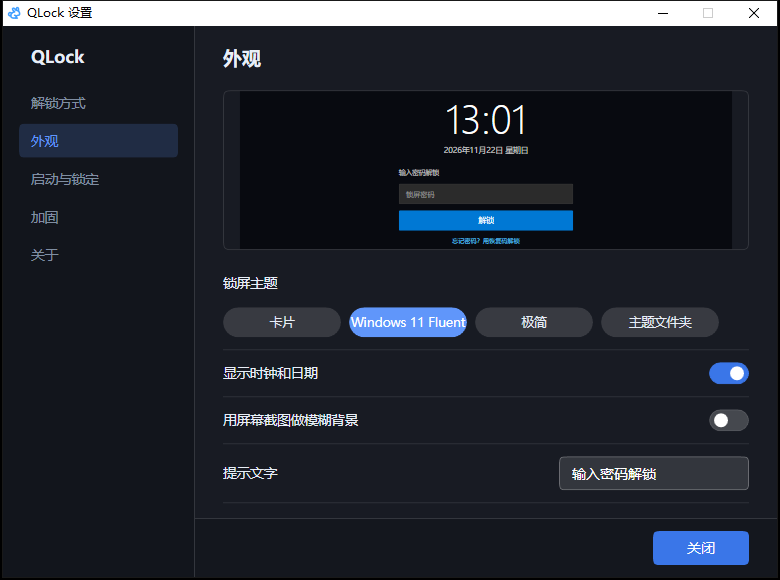
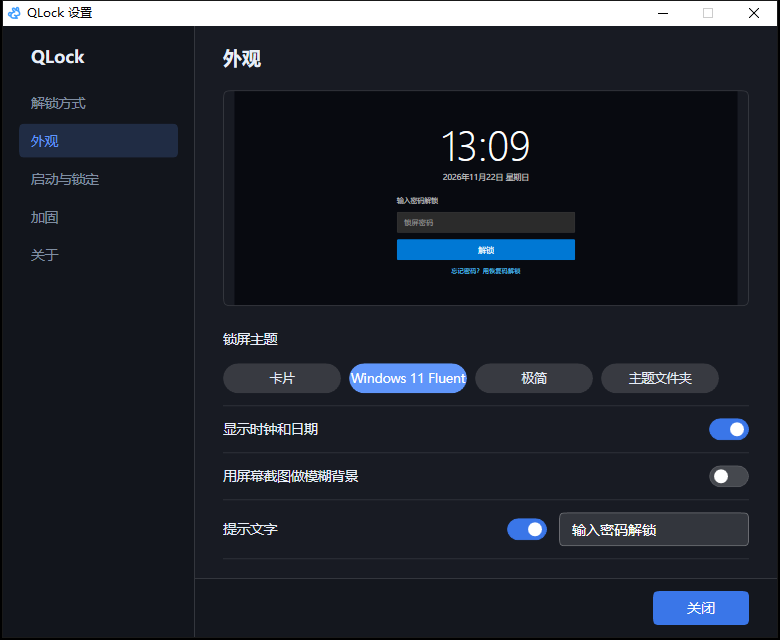
提示文字能关掉，外观页的预览框加高

diff --git a/src/SettingsWindow.cs b/src/SettingsWindow.cs
@@ -55,7 +55,7 @@ namespace QLock
             Win = new Window();
             Win.Title = firstRun ? "QLock 首次设置" : "QLock 设置";
             Win.Width = 780;
-            Win.Height = 580;
+            Win.Height = 640;
             Win.ResizeMode = ResizeMode.CanMinimize;
             Win.WindowStartupLocation = WindowStartupLocation.CenterScreen;
             Win.Background = Ui.Surface;
@@ -394,14 +394,31 @@ namespace QLock
             subtitleBox = new TextBox();
             subtitleBox.Width = 190;
             subtitleBox.Text = cfg.Subtitle;
+            subtitleBox.Margin = new Thickness(Design.Gap12, 0, 0, 0);
             Ui.StyleInput(subtitleBox);
+            subtitleBox.IsEnabled = cfg.ShowSubtitle;
             subtitleBox.LostFocus += delegate { CommitSubtitle(); };
             subtitleBox.TextChanged += delegate { RefreshPreview(); };
             subtitleBox.KeyDown += delegate(object s, KeyEventArgs e)
             {
                 if (e.Key == Key.Enter) { CommitSubtitle(); }
             };
-            pane.Children.Add(Row("提示文字", subtitleBox));
+
+            CheckBox showSubtitle = Toggle(cfg.ShowSubtitle);
+            showSubtitle.HorizontalAlignment = HorizontalAlignment.Left;
+            NameControl(showSubtitle, "显示提示文字");
+            Bind(showSubtitle, delegate(bool on)
+            {
+                cfg.ShowSubtitle = on;
+                subtitleBox.IsEnabled = on;
+                RefreshPreview();
+            }, "已保存，下次锁屏生效");
+
+            StackPanel subtitleRow = new StackPanel();
+            subtitleRow.Orientation = Orientation.Horizontal;
+            subtitleRow.Children.Add(showSubtitle);
+            subtitleRow.Children.Add(subtitleBox);
+            pane.Children.Add(Row("提示文字", subtitleRow));
 
             return pane;
         }
@@ -409,7 +426,7 @@ namespace QLock
         FrameworkElement BuildPreviewArea()
         {
             previewHost = new Squircle();
-            previewHost.Height = 160;
+            previewHost.Height = 216;
             previewHost.CornerRadius = new CornerRadius(Design.RadiusCard);
             previewHost.BorderThickness = new Thickness(1);
             previewHost.BorderBrush = Ui.Line;
@@ -427,7 +444,7 @@ namespace QLock
 
             Grid root = new Grid();
             root.Width = 960;
-            root.Height = 308;
+            root.Height = 408;
             root.ClipToBounds = true;
             root.Background = Ui.BrushOf(t.Background.Color, Brushes.Black);
 
@@ -519,6 +536,7 @@ namespace QLock
             TextBlock sub = Ui.Text(subtitle, t.Subtitle.Size,
                 Ui.BrushOf(t.Subtitle.Color, Ui.TextPrimary), FontWeights.Normal);
             sub.Margin = new Thickness(0, 0, 0, t.Subtitle.Gap);
+            if (!cfg.ShowSubtitle || !t.Subtitle.Show) sub.Visibility = Visibility.Collapsed;
             body.Children.Add(sub);
 
             bool underline = string.Equals(t.Input.Kind, "underline", StringComparison.OrdinalIgnoreCase);

diff --git a/tests/TestMain.cs b/tests/TestMain.cs
@@ -63,7 +63,7 @@ namespace QLock
 
             AppConfig partial = AppConfig.Deserialize("{\"Version\":1,\"PasswordHash\":\"x\",\"PasswordSalt\":\"y\"}");
             Check(partial.InterceptWinL && partial.BlockSystemHotkeys && partial.ShowTray, "partial config keeps hardening defaults");
-            Check(!partial.BackgroundSnapshot && partial.ShowClock && partial.CustomHotkeyEnabled, "partial config keeps appearance defaults");
+            Check(!partial.BackgroundSnapshot && partial.ShowClock && partial.ShowSubtitle && partial.CustomHotkeyEnabled, "partial config keeps appearance defaults");
             Check(partial.PasswordIterations == Auth.DefaultIterations, "partial config keeps iteration count");
             Check(partial.Autostart == "none", "partial config keeps autostart default");
             Check(partial.LastUpdateCheckTicks == 0 && partial.SkippedVersion == "", "partial config keeps update defaults");

diff --git a/src/AppConfig.cs b/src/AppConfig.cs
@@ -29,6 +29,7 @@ namespace QLock
 
         [DataMember] public bool BackgroundSnapshot = false;
         [DataMember] public bool ShowClock = true;
+        [DataMember] public bool ShowSubtitle = true;
         [DataMember] public string Subtitle = "输入密码解锁";
         [DataMember] public string ThemeId = "fluent";
 
@@ -55,6 +56,7 @@ namespace QLock
             LockOnStartup = false;
             BackgroundSnapshot = false;
             ShowClock = true;
+            ShowSubtitle = true;
             Subtitle = "输入密码解锁";
             ThemeId = "fluent";
             LastUpdateCheckTicks = 0;

diff --git a/src/LockTheme.cs b/src/LockTheme.cs
@@ -90,6 +90,7 @@ namespace QLock
     [DataContract]
     public class ThemeSubtitle
     {
+        [DataMember] public bool Show = true;
         [DataMember] public double Size = 13;
         [DataMember] public string Color = "#FFE8EEF7";
         [DataMember] public double Gap = 14;
@@ -97,6 +98,7 @@ namespace QLock
         [OnDeserializing]
         void Defaults(StreamingContext ctx)
         {
+            Show = true;
             Size = 13;
             Color = "#FFE8EEF7";
             Gap = 14;

diff --git a/src/LockWindow.cs b/src/LockWindow.cs
@@ -131,6 +131,7 @@ namespace QLock
             TextBlock subtitle = Ui.Text(cfg.Subtitle, theme.Subtitle.Size,
                 Ui.BrushOf(theme.Subtitle.Color, Ui.TextPrimary), FontWeights.Normal);
             subtitle.Margin = new Thickness(0, 0, 0, theme.Subtitle.Gap);
+            if (!cfg.ShowSubtitle || !theme.Subtitle.Show) subtitle.Visibility = Visibility.Collapsed;
             body.Children.Add(subtitle);
 
             passwordBox = new PasswordBox();

diff --git a/CHANGELOG.md b/CHANGELOG.md
@@ -12,6 +12,8 @@
 - 外观页顶部加了锁屏预览，换主题、关时钟、开模糊背景、改提示文字都会当场跟着变；模糊背景用当前桌面壁纸顶替（真锁屏截的是锁那一刻的屏幕）
 - 设置窗的颜色和尺寸收进一套设计 token（`src\Design.cs`）：左右内边距、控件高度、行距对齐到同一套数值，右侧控件和页脚按钮的右缘落在同一条线上
 - 圆角换成连续曲率（每个角画一段超椭圆，曲率从直边连续过渡到拐角），按钮、输入框、卡片、外观预览统一；开关和主题药丸本来就是胶囊，仍是正圆
+- 提示文字可以关掉：外观页「提示文字」那行左边有个开关，关掉后锁屏和预览里都不显示那行字，输入框还在
+- 外观页的预览框加高，设置窗跟着长到 780x640；预览的画面比例比之前更接近真实锁屏
 
 ## 0.2.0（2026-11-22）
 

diff --git a/README.md b/README.md
@@ -52,7 +52,7 @@ Windows 上的一个锁屏小工具。锁定之后桌面变成一张模糊的截
 | 分区 | 内容 |
 | --- | --- |
 | 解锁方式 | 改密码（右侧眼睛按钮可以看明文）、生成新的恢复码（只显示一次，同时复制到剪贴板） |
-| 外观 | 锁屏预览、锁屏主题、显示时钟、用截图做模糊背景（默认关）、提示文字 |
+| 外观 | 锁屏预览、锁屏主题、显示时钟和日期、提示文字（可整行关掉）、用截图做模糊背景（默认关） |
 | 启动与锁定 | 接管 Win+L、Ctrl+Alt+L、启动即锁、空闲 N 分钟、登录时自动启动、以管理员身份启动 |
 | 加固 | 拦截系统热键 |
 | 关于 | 当前版本、检查更新、配置和日志的位置 |
